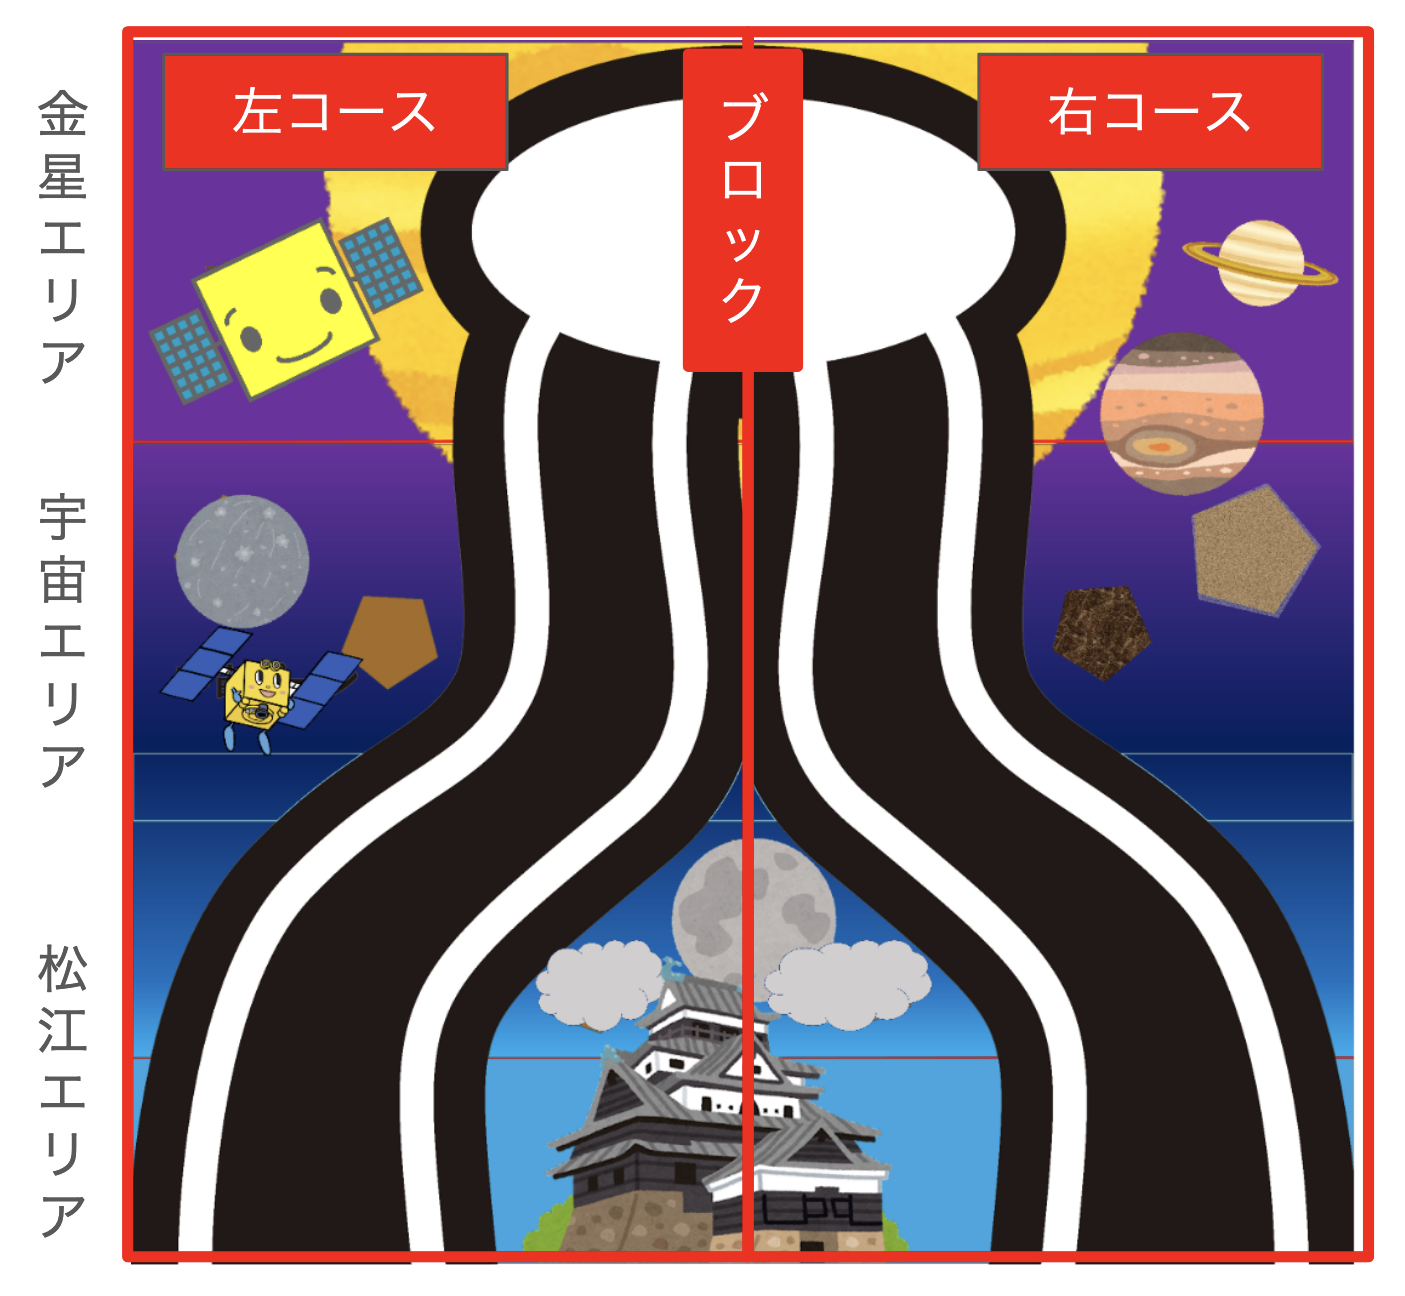
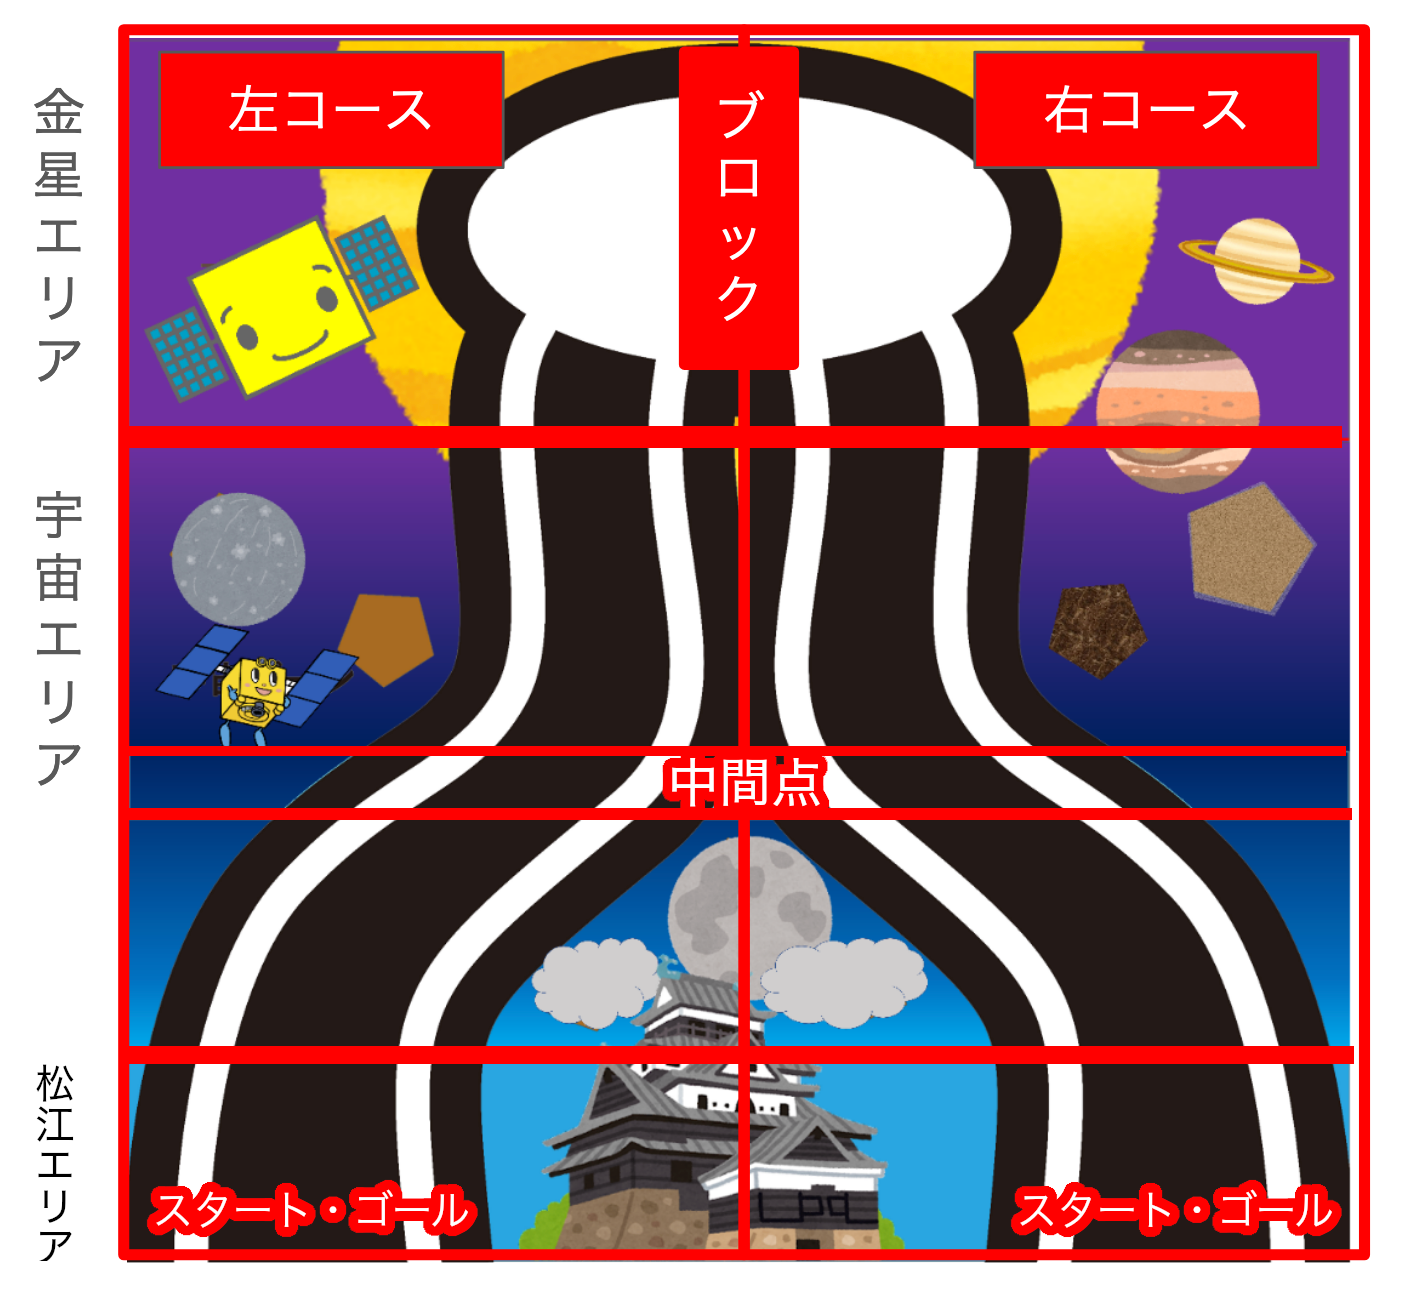
全国ルールに準拠するようにルールを改正

diff --git a/rule/index.html b/rule/index.html
@@ -57,8 +57,9 @@
                             <div class="d-flex justify-content-center col-12">
                                 <ul class="text-start">
                                     <li>コースのサイズは縦横3.6mです。</li>
-                                    <li>コースは左右対象につくられています。コースの左側を「左コース」、右側を「右コース」とします。</li>
+                                    <li>コースは左右対象につくられています。コースの左側が「左コース」、右側が「右コース」です。</li>
                                     <li>コースは手前から「松江エリア」、「宇宙エリア」、「金星エリア」の３つのエリアに分けられています。</li>
+                                    <li>「松江エリア」がスタートとゴールです。</li>
                                     <li>「宇宙エリア」には中間点があります。</li>
                                     <li>コースは図のように黒地に左右が白ラインで囲まれた道です。</li>
                                     <li>コースの外には危険な隕石が浮遊しています。（障害物が設置されています）</li>
@@ -118,7 +119,8 @@
                                         <tr>
                                             <th scope="row">
                                                 金星エリアにプローブを投入した<br>
-                                                ※投入後にプローブがエリアから転がり出てもOK）<br>
+                                                ※金星エリアに入ったのち<br>
+                                                ※投入後にプローブがエリアから転がり出てもOK<br>
                                                 ※プローブはロボットに「載せた状態」で運ぶこと
                                             </th>
                                             <td>
@@ -135,8 +137,17 @@
                                         </tr>
                                         <tr>
                                             <th scope="row">
-                                                雲粒子1個を松江エリアに持ち帰った<br>
-                                                ※最大3点
+                                                相手より先にゴール状態になった<br>
+                                                ※ゴール状態とは松江エリアに戻ったのち「フィニッシュ」と宣言したこと
+                                            </th>
+                                            <td>
+                                                1
+                                            </td>
+                                        </tr>
+                                        <tr>
+                                            <th scope="row">
+                                                スタートしたコースの雲粒子を松江エリアに持ち帰った<br>
+                                                1個あたり
                                             </th>
                                             <td>
                                                 1
@@ -145,52 +156,53 @@
                                         <tr>
                                             <th scope="row">
                                                 激レア雲粒子1個を松江エリアに持ち帰った<br>
-                                                ※最大3点
+                                                1個あたり
                                             </th>
                                             <td>
                                                 1
                                             </td>
                                         </tr>
-                                        <th scope="row">
-                                            （決勝トーナメントのみ）相手より先に「ゴール」と宣言した
-                                        </th>
-                                        <td>
-                                            1
-                                        </td>
+                                        <tr>
+                                            <th scope="row">
+                                                歩行型ロボットボーナス<br>
+                                                ゴール状態になったら
+                                            </th>
+                                            <td>
+                                                5
+                                            </td>
+                                        </tr>
+
                                     </tbody>
                                 </table>
                             </div>
 
-                            <h2>対戦方法について</h2>
+                            <h2>試合の進め方</h2>
 
-                            <div class="col-md-8 offset-md-2 col-sm-12 mb-4">
-                                <img class="img-fluid" srcset="/kani-robo/images/robo-running-line@2x.png 2x" alt="">
-                            </div>
-
-                            <div class="d-flex justify-content-center col-12">
-                                <ul class="text-start">
-                                    <li>対戦のとき、左コースに1名、右コースに1名、同時に2名がロボを走行させます。</li>
-                                    <li>金星エリアには、左コースと右コースを分けるブロックが置かれます。</li>
-                                    <li>松江エリアと宇宙エリアには、左コースと右コースを分けるブロックは置かれません。</li>
-                                    <li>ロボが対戦相手側コースに侵入し、対戦相手の行動を妨げそうになった場合、主審の判断で強制リトライになる場合があります。</li>
-                                </ul>
-                            </div>
-
-                            <h2>選手ができること</h2>
+                            <h3>スタート</h3>
 
                             <p class="d-flex justify-content-center col-12">
-                                対戦中に選手ができるのは「リトライ」「フィニッシュ」「ゴール」の３つです。
+                                ロボットを松江エリアの端に置き、プローブを載せて、審判長の合図でスタートします。
                             </p>
 
                             <h3>リトライ</h3>
 
                             <div class="d-flex justify-content-center col-12">
                                 <ul class="text-start">
-                                    <li>選手は、手をあげて「リトライ」と宣言して、かにロボを松江エリアに戻して走行をやりなおすことができます。</li>
+                                    <li>選手は、手をあげて「リトライ」と宣言して、ロボットを松江エリアに戻して走行をやりなおすことができます。</li>
                                     <li>リトライは何度でも行うことができます。</li>
                                     <li>取得した得点はゼロに戻ります。</li>
                                     <li>雲粒子はスタート時の場所に戻ります。</li>
-                                    <li>激レア雲粒子の場所はそのままにします。ただし、激レア雲粒子がかにロボに付いていた場合は審判が回収します。</li>
+                                    <li>激レア雲粒子の場所はそのままにします。ただし、激レア雲粒子がロボットに付いていた場合は審判が回収します。</li>
+                                    <li>以下の場合は、審判長の判断によって「リトライ」される場合があります。
+                                        <ul>
+                                            <li>
+                                                相手のコースにロボットが入ってしまった
+                                            </li>
+                                            <li>
+                                                ロボット同士がぶつかりあって動けなくなった
+                                            </li>
+                                        </ul>
+                                    </li>
                                 </ul>
                             </div>
 
@@ -200,23 +212,31 @@
                                 <ul class="text-start">
                                     <li>選手は、手をあげて「フィニッシュ」と宣言して、走行を終了することができます。</li>
                                     <li>フィニッシュすると、そのときまでに取得した得点がもらえます。</li>
-                                    <li>フィニッシュしたらリトライできません。</li>
+                                    <li>フィニッシュの後でリトライできません。</li>
                                     <li>フィニッシュしたチームのかにロボはコースから取り除かれます。</li>
                                 </ul>
                             </div>
 
-                            <h3>ゴール</h3>
+                            <h2>大会ルール</h2>
+
+                            <div class="d-flex justify-content-center col-12">
+                                出場者数により大会当日に変更する場合がありますのでご了承ください。
+                            </div>
+
+                            <div class="col-md-8 offset-md-2 col-sm-12 mb-4">
+                                <img class="img-fluid" srcset="/kani-robo/images/robo-running-line@2x.png 2x" alt="">
+                            </div>
 
                             <div class="d-flex justify-content-center col-12">
                                 <ul class="text-start">
-                                    <li>かにロボが金星エリアまで行って、松江エリアまで戻ってきたとき、選手は、手をあげて「ゴール」と宣言して、走行を終了することができます。</li>
-                                    <li>ゴールすると、そのときまでに取得した得点がもらえます。</li>
-                                    <li>ゴールしたらリトライできません。</li>
-                                    <li>ゴールしたチームのかにロボはコースから取り除かれます。</li>
-                                    <li>(決勝トーナメントのみ)対戦相手よりも先にゴールを宣言すると1点もらえます。</li>
+                                    <li>トーナメント形式で行います。</li>
+                                    <li>1試合は2ヒート(2回走行)制です。同じ対戦相手と2回対戦します。</li>
+                                    <li>第1ヒートと第2ヒートで左右のコースを入れかえて走行します。</li>
+                                    <li>2ヒートの合計得点が多い方が試合の勝者です。</li>
+                                    <li>合計得点が同じ場合は、2ヒートの合計タイムが速い方が試合の勝者です。</li>
+                                    <li>合計得点も合計タイムも同じ場合は、じゃんけんで勝者を決定します。</li>
                                 </ul>
                             </div>
-
                     </main>
                 </div>
             </div>
